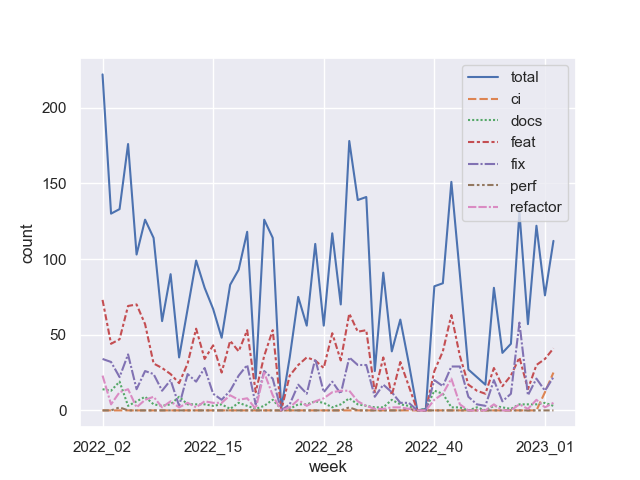
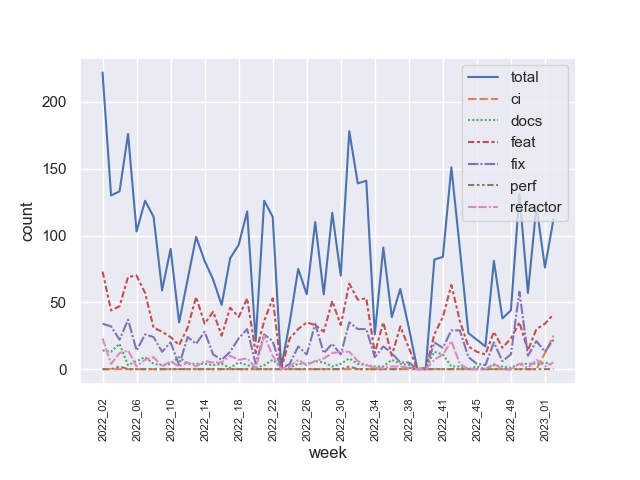
chore: improve x ticks

diff --git a/README.md b/README.md
@@ -54,5 +54,5 @@ work_hours | 2039.62 | 1936.26 | 536.19 | 38.18
 ![img.png](loc_count.png)
 
 ## Deep work
-- filtered out where deep% > 0
 ![img.png](deep_work.png)
+- where deep% > 0
